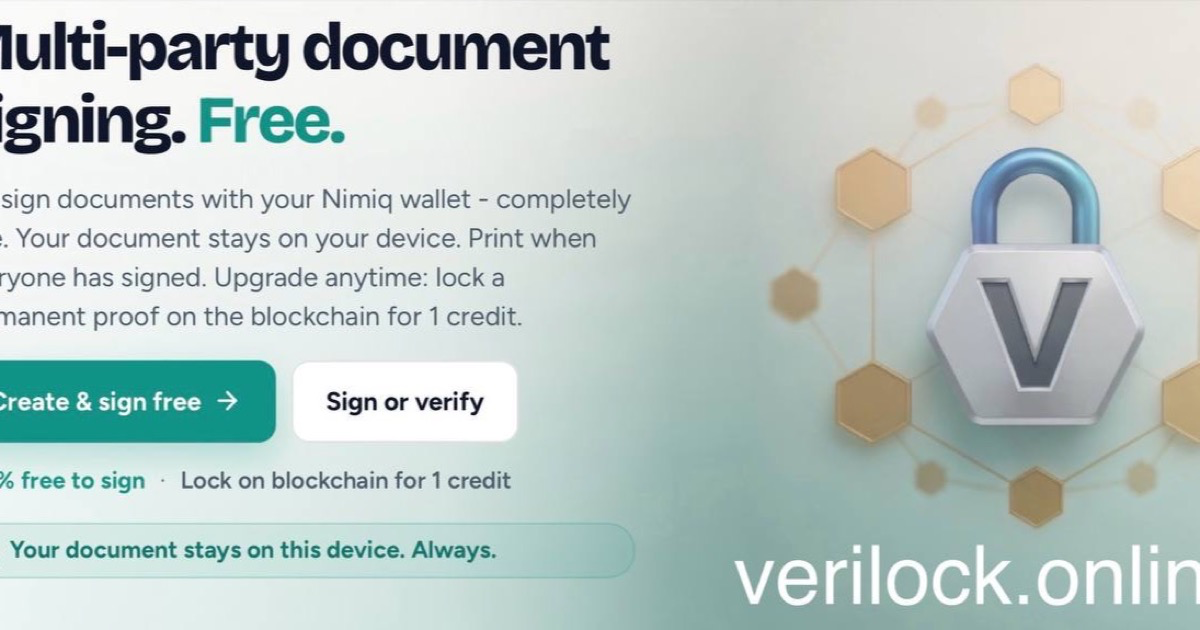
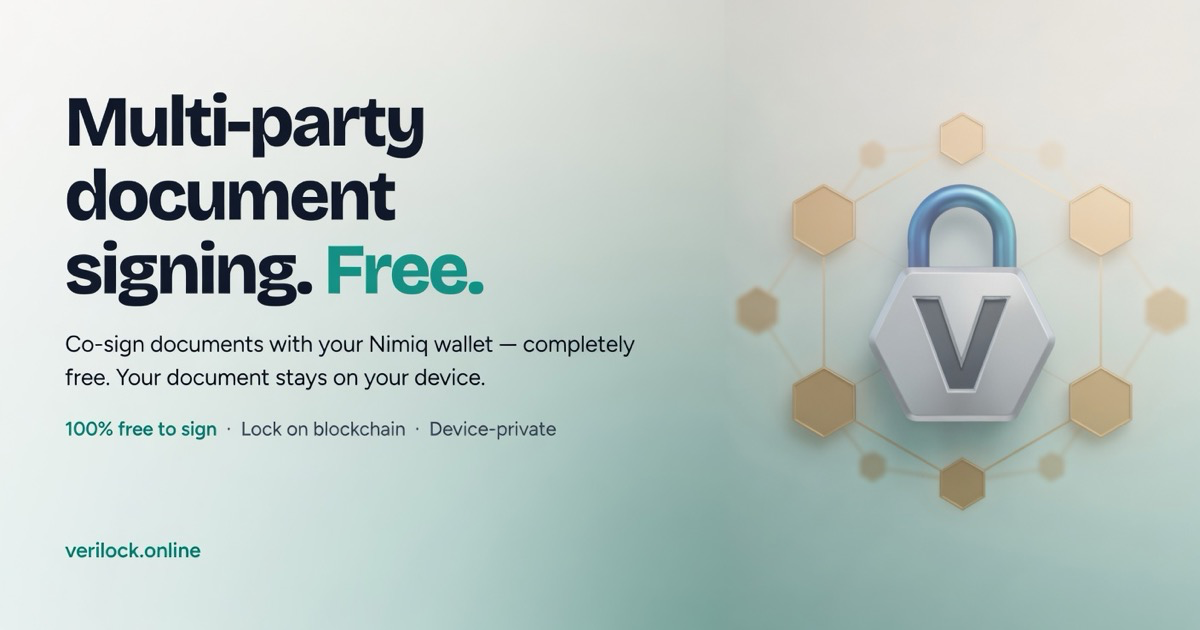
og: refresh link preview hero and complete OG image meta.
Replace og-hero.png with the new 1200×630 marketing still and add image type/alt tags in static HTML and SPA SEO so social crawlers get a clearer preview.

diff --git a/client/src/seo.ts b/client/src/seo.ts
@@ -155,8 +155,10 @@ export function applyPageMeta(meta: PageMeta): void {
   setMeta('property', 'og:description', meta.description)
   setMeta('property', 'og:url', url)
   setMeta('property', 'og:image', image)
+  setMeta('property', 'og:image:type', 'image/png')
   setMeta('property', 'og:image:width', '1200')
   setMeta('property', 'og:image:height', '630')
+  setMeta('property', 'og:image:alt', 'VeriLock — Multi-party document signing. Free.')
   setMeta('property', 'og:locale', 'en_US')
 
   setMeta('name', 'twitter:card', 'summary_large_image')

diff --git a/client/index.html b/client/index.html
@@ -30,8 +30,10 @@
     />
     <meta property="og:url" content="https://verilock.online/" />
     <meta property="og:image" content="https://verilock.online/og-hero.png" />
+    <meta property="og:image:type" content="image/png" />
     <meta property="og:image:width" content="1200" />
     <meta property="og:image:height" content="630" />
+    <meta property="og:image:alt" content="VeriLock — Multi-party document signing. Free." />
     <meta property="og:locale" content="en_US" />
 
     <meta name="twitter:card" content="summary_large_image" />
